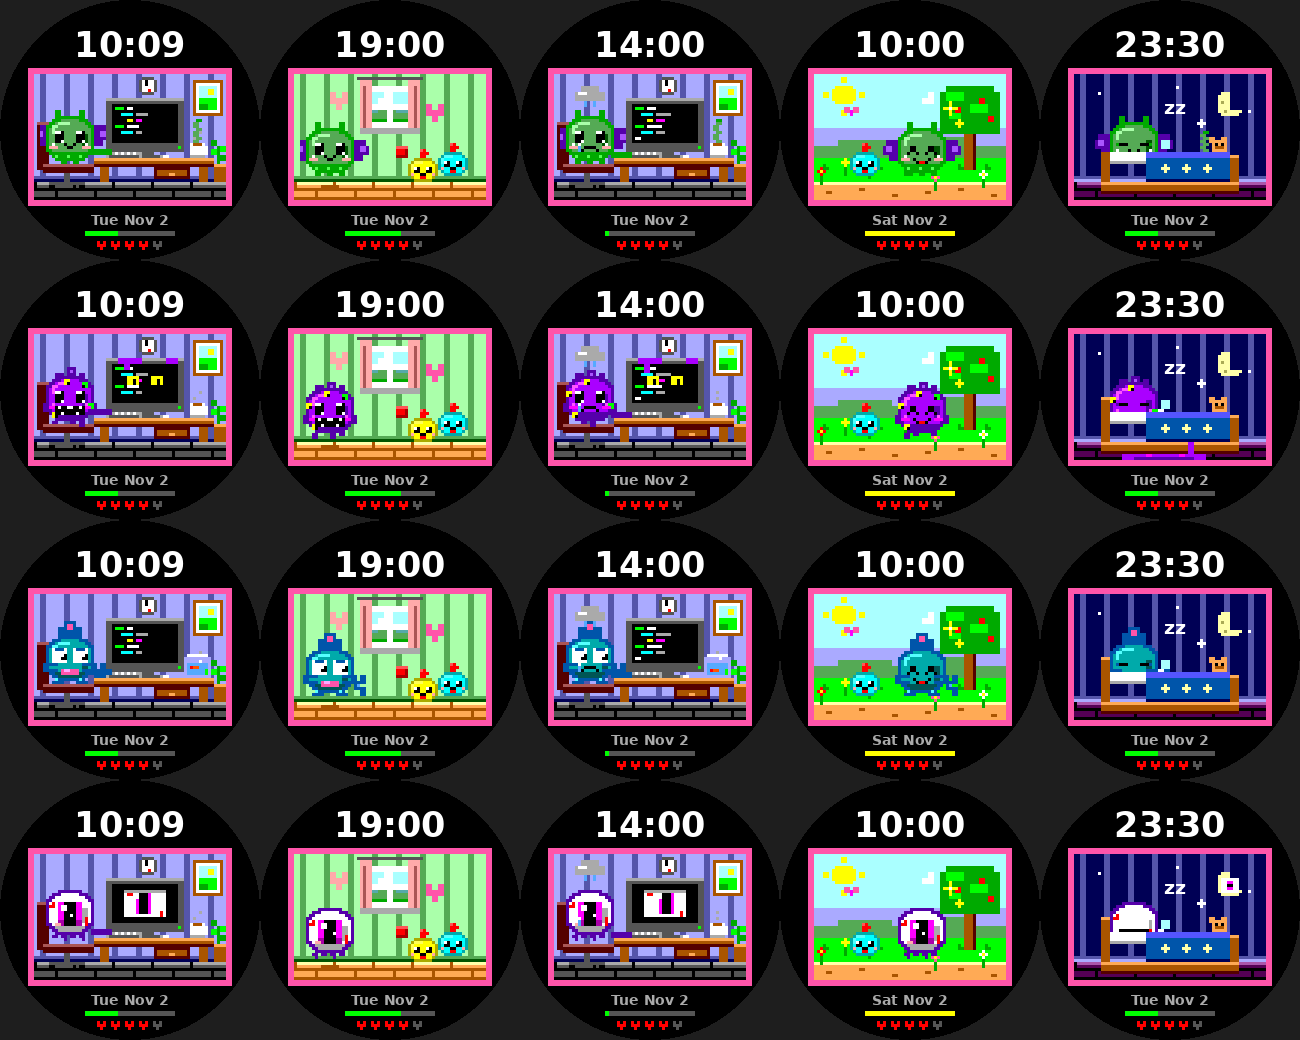
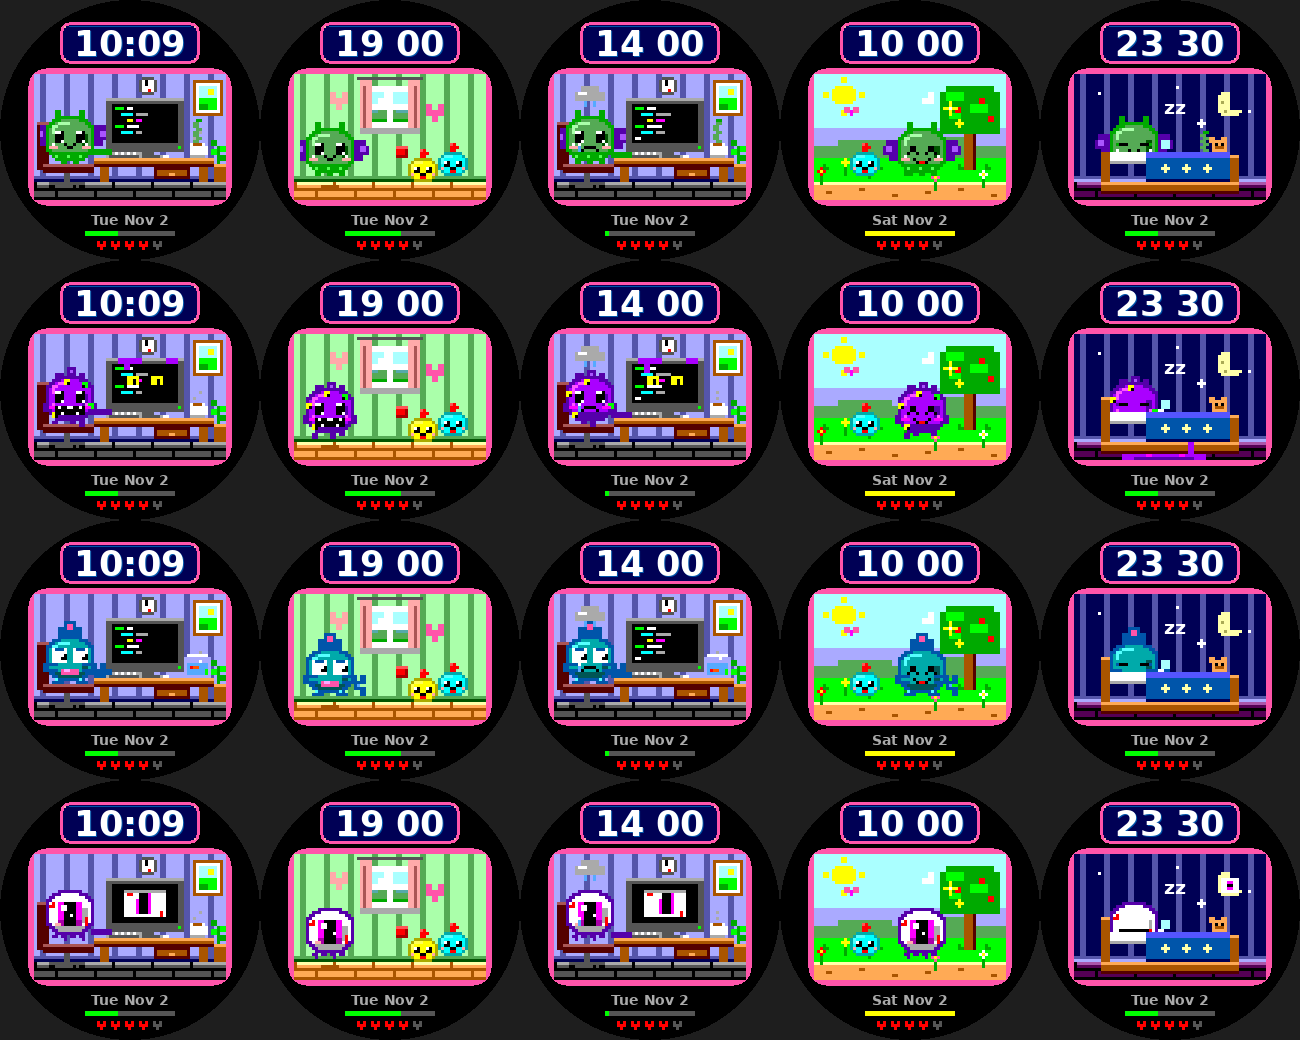
Frame the time in a pink-bordered navy display with rivets, shadow and blinking colon
Claude-Session: https://claude.ai/code/session_011ky8cAnUXaEurYwVogiPNe

diff --git a/desk-pet/src/c/main.c b/desk-pet/src/c/main.c
@@ -37,6 +37,7 @@ static int s_batt = 100;
 static int s_steps;
 static Mood s_mood = MOOD_OK;
 static uint32_t s_tick;
+static bool s_in_focus = true;   // false while a notification/menu covers the face
 static char s_time_buf[8];
 static char s_date_buf[16];
 
@@ -1206,11 +1207,43 @@ static void canvas_update(Layer *layer, GContext *ctx) {
   graphics_context_set_fill_color(ctx, GColorBlack);
   graphics_fill_rect(ctx, b, 0, GCornerNone);
 
-  // time
-  graphics_context_set_text_color(ctx, GColorWhite);
-  graphics_draw_text(ctx, s_time_buf, fonts_get_system_font(FONT_KEY_BITHAM_42_BOLD),
-                     GRect(0, h * 20 / 260, w, h * 52 / 260),
-                     GTextOverflowModeFill, GTextAlignmentCenter, NULL);
+  // time: a pink-framed navy "display" with rivets, a shadowed numeral and a blinking colon
+  {
+    int px_w = w / 260 ? w / 260 : 1;
+    GRect panel = GRect(w * 60 / 260, h * 22 / 260, w * 140 / 260, h * 42 / 260);
+    graphics_context_set_fill_color(ctx, GColorShockingPink);
+    graphics_fill_rect(ctx, panel, 9 * px_w, GCornersAll);
+    graphics_context_set_fill_color(ctx, GColorOxfordBlue);
+    graphics_fill_rect(ctx, GRect(panel.origin.x + 3 * px_w, panel.origin.y + 3 * px_w,
+                                  panel.size.w - 6 * px_w, panel.size.h - 6 * px_w),
+                       6 * px_w, GCornersAll);
+    graphics_context_set_fill_color(ctx, GColorCobaltBlue);               // glassy top highlight
+    graphics_fill_rect(ctx, GRect(panel.origin.x + 9 * px_w, panel.origin.y + 4 * px_w,
+                                  panel.size.w - 18 * px_w, px_w), 0, GCornerNone);
+    graphics_context_set_fill_color(ctx, GColorMelon);                    // corner rivets
+    int rx0 = panel.origin.x + 4 * px_w, rx1 = panel.origin.x + panel.size.w - 6 * px_w;
+    int ry0 = panel.origin.y + 4 * px_w, ry1 = panel.origin.y + panel.size.h - 6 * px_w;
+    graphics_fill_rect(ctx, GRect(rx0, ry0, 2 * px_w, 2 * px_w), 0, GCornerNone);
+    graphics_fill_rect(ctx, GRect(rx1, ry0, 2 * px_w, 2 * px_w), 0, GCornerNone);
+    graphics_fill_rect(ctx, GRect(rx0, ry1, 2 * px_w, 2 * px_w), 0, GCornerNone);
+    graphics_fill_rect(ctx, GRect(rx1, ry1, 2 * px_w, 2 * px_w), 0, GCornerNone);
+
+    char tb[8];
+    strncpy(tb, s_time_buf, sizeof(tb));
+    tb[sizeof(tb) - 1] = '\0';
+    if ((s_tick & 1) && s_in_focus) {                                     // blinking colon
+      for (char *c = tb; *c; c++) {
+        if (*c == ':') *c = ' ';
+      }
+    }
+    GFont tf = fonts_get_system_font(FONT_KEY_BITHAM_42_BOLD);
+    GRect tr = GRect(0, h * 19 / 260, w, h * 52 / 260);
+    graphics_context_set_text_color(ctx, GColorCobaltBlue);               // drop shadow
+    graphics_draw_text(ctx, tb, tf, GRect(tr.origin.x + px_w, tr.origin.y + px_w, tr.size.w, tr.size.h),
+                       GTextOverflowModeFill, GTextAlignmentCenter, NULL);
+    graphics_context_set_text_color(ctx, GColorWhite);
+    graphics_draw_text(ctx, tb, tf, tr, GTextOverflowModeFill, GTextAlignmentCenter, NULL);
+  }
 
   // scene frame + scene
   g = ctx;
@@ -1322,8 +1355,6 @@ static void tap_handler(AccelAxisType axis, int32_t direction) {
 
 // Animate once a second only while the face is visible and the battery is
 // healthy; otherwise tick once a minute to save power.
-static bool s_in_focus = true;
-
 static void update_tick_rate(void) {
   TimeUnits u = (s_in_focus && s_batt > 15) ? SECOND_UNIT : MINUTE_UNIT;
   tick_timer_service_subscribe(u, tick_handler);

diff --git a/desk-pet/tools/preview/render.c b/desk-pet/tools/preview/render.c
@@ -15,8 +15,15 @@ void graphics_context_set_fill_color(GContext *c, GColor col) { fillc = col; }
 void graphics_context_set_text_color(GContext *c, GColor col) { textc = col; }
 void graphics_fill_rect(GContext *c, GRect r, uint16_t rad, GCornerMask m) {
   for (int y = r.origin.y; y < r.origin.y + r.size.h; y++)
-    for (int x = r.origin.x; x < r.origin.x + r.size.w; x++)
-      if (x >= 0 && y >= 0 && x < SW && y < SW) fb[y][x] = fillc.argb;
+    for (int x = r.origin.x; x < r.origin.x + r.size.w; x++) {
+      if (x < 0 || y < 0 || x >= SW || y >= SW) continue;
+      if (m == GCornersAll && rad > 0) {        // honour rounded corners like the real API
+        int cx = x < r.origin.x + (int)rad ? r.origin.x + rad : (x >= r.origin.x + r.size.w - (int)rad ? r.origin.x + r.size.w - 1 - rad : x);
+        int cy = y < r.origin.y + (int)rad ? r.origin.y + rad : (y >= r.origin.y + r.size.h - (int)rad ? r.origin.y + r.size.h - 1 - rad : y);
+        if ((x - cx) * (x - cx) + (y - cy) * (y - cy) > (int)(rad * rad)) continue;
+      }
+      fb[y][x] = fillc.argb;
+    }
 }
 void graphics_draw_text(GContext *c, const char *s, GFont f, GRect r, GTextOverflowMode o, GTextAlignment a, void *l) {
   fb_text_log(s, f, r, textc, a);

diff --git a/README.md b/README.md
@@ -19,7 +19,7 @@ A virtual-pet-style watchface where a little pet whose activity follows the time
 | 20:00 | Bedtime story: reading to the kids, who fall asleep at :30 | same |
 | 21:00 | Reading in bed | same |
 
-The scene is a 64x42 pixel grid (16x16 pet sprites with outlines, shading and glossy eyes; textured wallpaper and wood floors; beveled furniture; pet shadows). Battery is shown as 5 hearts. A green step bar fills toward 8,000 steps (gold when reached); the pet frowns and cries if you fall well behind pace after 11:00, and smiles once the goal is hit. All art is drawn with rectangles (no image assets).
+The time sits in a pink-framed navy display with rivets, a drop-shadowed numeral and a blinking colon. The scene is a 64x42 pixel grid (16x16 pet sprites with outlines, shading and glossy eyes; textured wallpaper and wood floors; beveled furniture; pet shadows). Battery is shown as 5 hearts. A green step bar fills toward 8,000 steps (gold when reached); the pet frowns and cries if you fall well behind pace after 11:00, and smiles once the goal is hit. All art is drawn with rectangles (no image assets).
 
 ### Build
 

diff --git a/desk-pet/STORE_LISTING.md b/desk-pet/STORE_LISTING.md
@@ -34,7 +34,7 @@ gets sad (rain cloud!); hit the goal and it celebrates.
 Controls: flick your wrist once to pet your pet (hearts!), flick twice within two seconds
 to switch to the next pet. Your choice is remembered.
 
-Battery shows as five hearts. The pet animates once a second only while the face is
+The time is shown in a pink-framed display with a blinking colon. Battery shows as five hearts. The pet animates once a second only while the face is
 visible and the battery is above 15%; otherwise it ticks once a minute to save power.
 
 Privacy: Desk Pet reads your step count from Pebble Health to draw the step bar. Nothing
